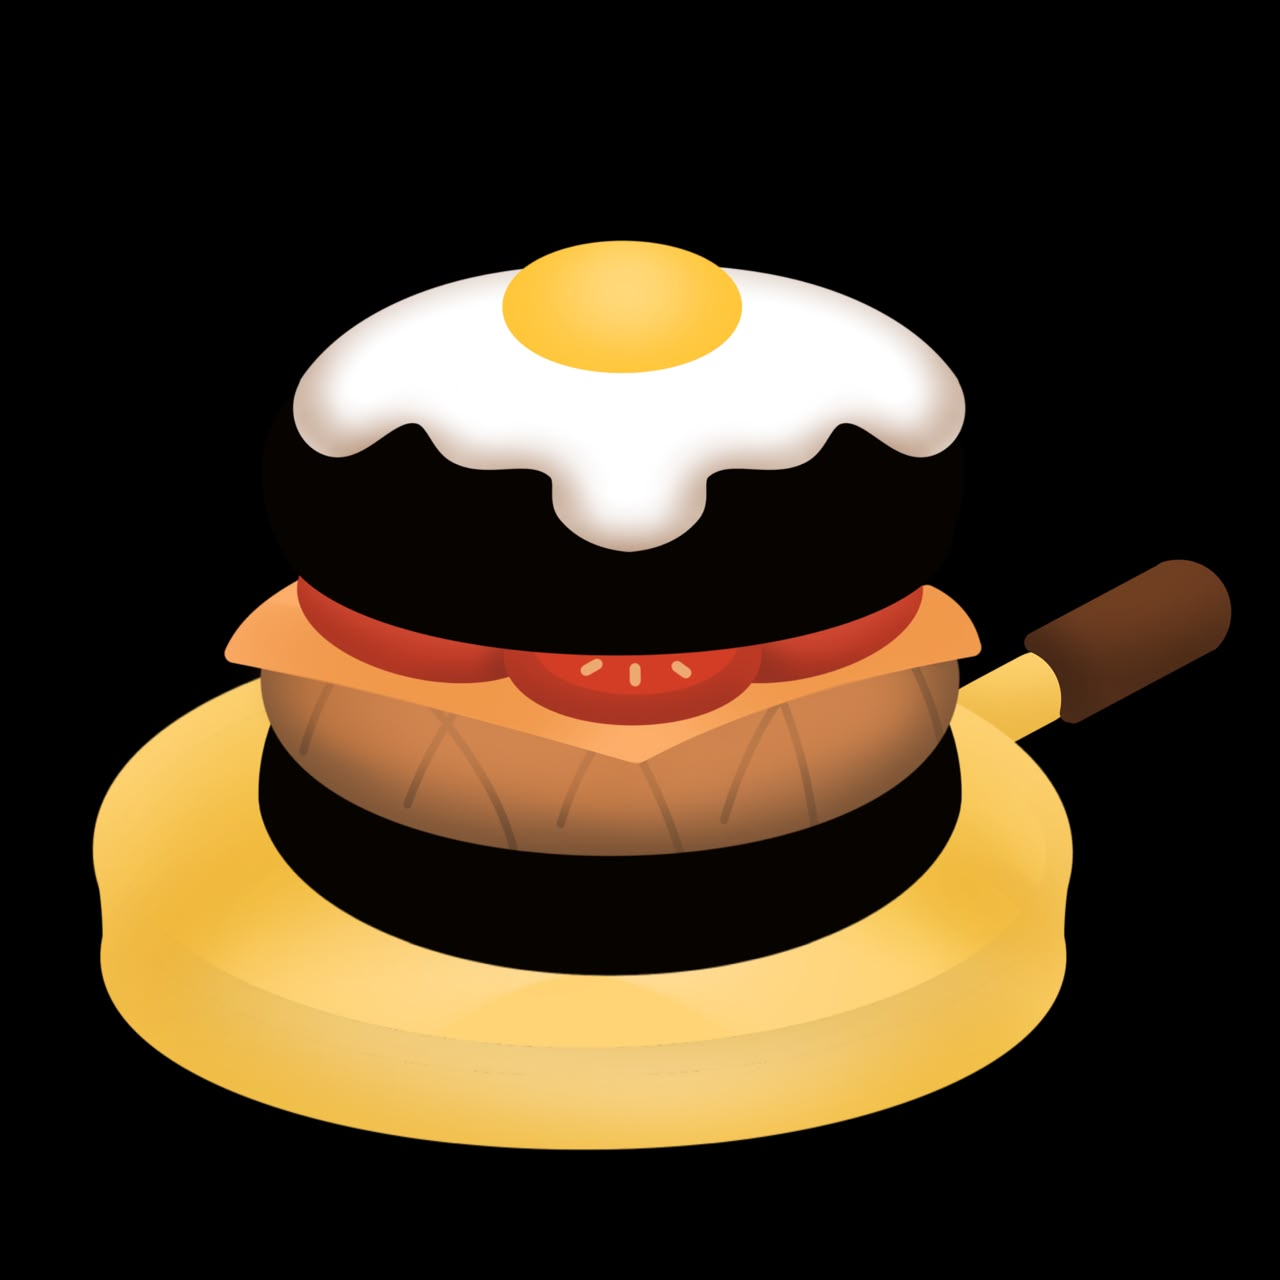
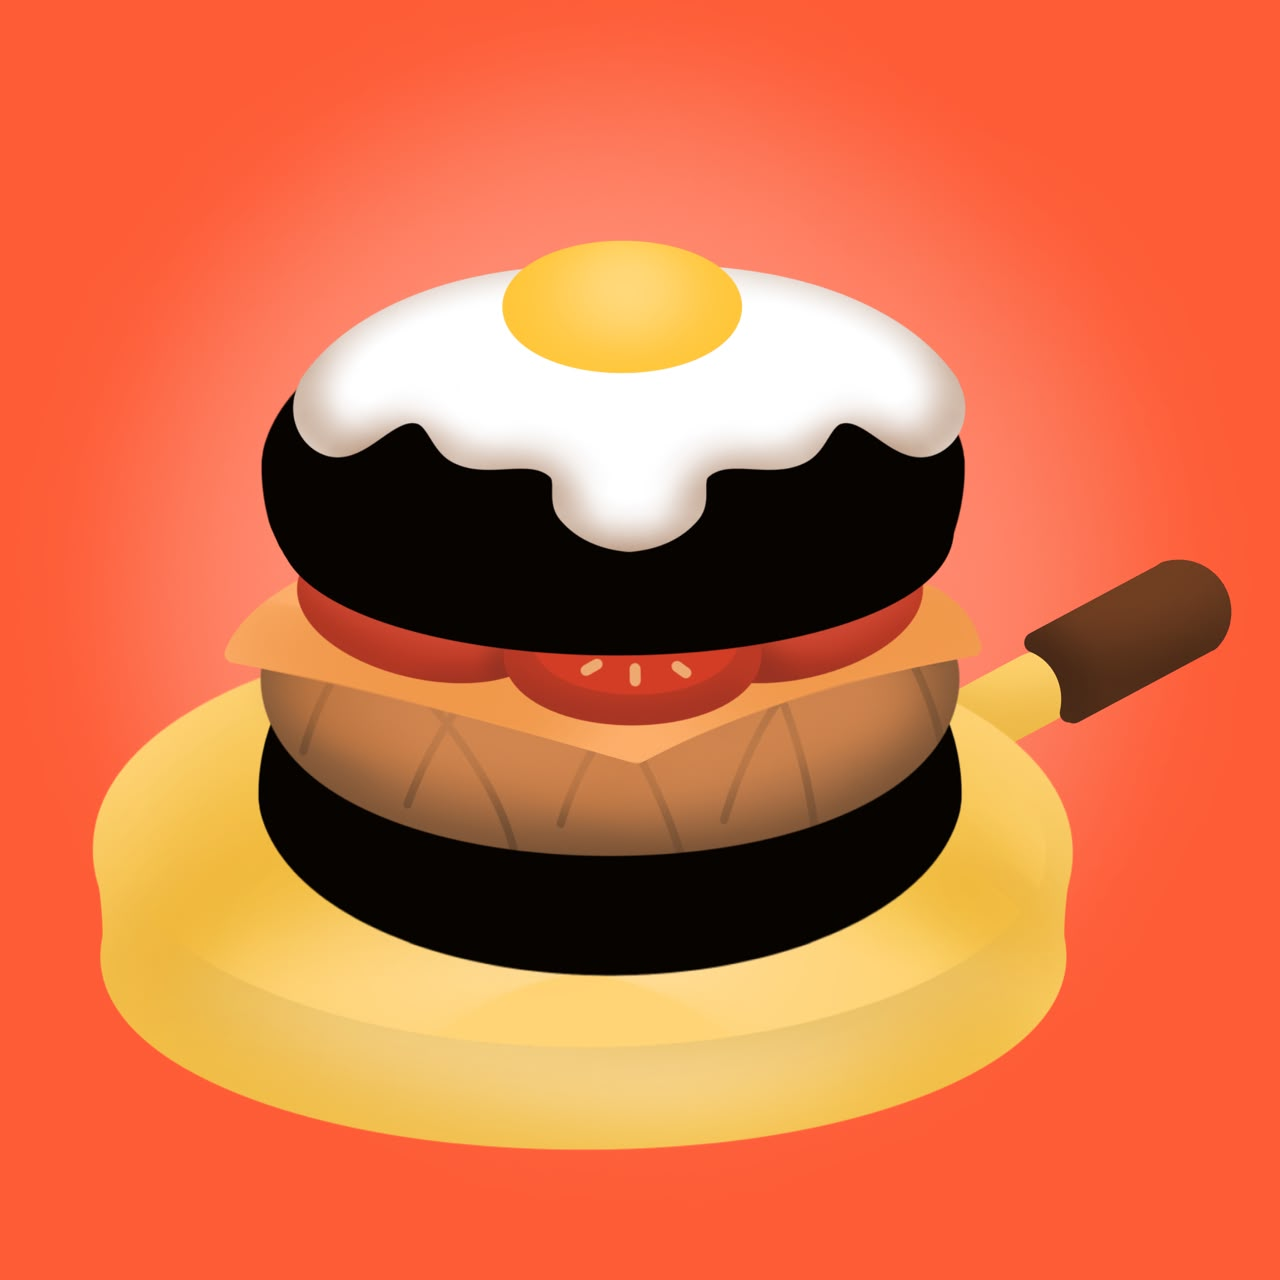
STYLE: botoes e carrossel

diff --git a/script.js b/script.js
@@ -48,7 +48,7 @@ const pratos = [
 
     {
         nome: "Gagamelo",
-        descricao: "Milk-shake cremoso de caramelo, preparado com uma mistura suave e saborosa, finalizado com o delicioso toque do caramelo. Uma bebida irresistível para acompanhar seu momento. Imagem Meramente Ilustrativa",
+        descricao: "Milk-shake cremoso de caramelo, preparado com uma mistura suave e saborosa, finalizado com o delicioso toque do caramelo. Uma bebida irresistível para acompanhar seu momento. Imagem Meramente Ilustrativa.",
         categoria: "Sobremesas",
         valor: 17.90,
         imagem: "img/gagamelo.jpeg",
@@ -56,35 +56,39 @@ const pratos = [
     },
 
     {
-        nome: "Joanne Dip",
-        descricao: "Molho rosé delicado.",
-        categoria: "Molhos",
-        valor: 5.90,
-        imagem: "img/joannedip.webp"
+        nome: "Dress Burguer",
+        descricao: "Hambúrguer artesanal com pão vermelho, suculenta carne bovina, queijo derretido e alface americana, finalizado com um irresistível molho de pimenta e bacon crocante por cima. Uma combinação intensa, cremosa e cheia de sabor. Imagem Meramente Ilustrativa.",
+        categoria: "Sanduíches",
+        valor: 28.90,
+        imagem: "img/dressburguer.jpeg",
+        alt: "Hambúrguer vermelho com carne, queijo e alface. No topo, bacons e uma bandeirinha azul e branca."
     },
 
     {
-        nome: "Judas Jalapeño",
-        descricao: "Molho apimentado.",
-        categoria: "Molhos",
-        valor: 6.90,
-        imagem: "img/judasjalapeno.jpg"
+        nome: "Speecheese",
+        descricao: "Hambúrguer artesanal duplo, com muito muito queijo e cebola caramelizada. Nossa cebola conta com um delicioso toque de cebola roxa crua para dar crocância ao prato. Imagem Meramente Ilustrativa.",
+        categoria: "Sanduíches",
+        valor: 32.90,
+        imagem: "img/speecheese.jpeg",
+        alt: "Hambúrguer duplo suculentp sob um prato de decoração de piano e dentro de uma garrafa."
     },
 
     {
-        nome: "Summershake",
-        descricao: "Milkshake de manga com pêssego.",
-        categoria: "Bebidas",
+        nome: "Just Free",
+        descricao: "Hambúrguer vegano artesanal, preparado com um delicioso blend vegetal, acompanhado de ingredientes frescos e saborosos. Uma opção leve, cremosa e irresistível para quem ama um bom hambúrguer. Imagem Meramente Ilustrativa.",
+        categoria: "Sanduíches",
+        valor: 30.90,
+        imagem: "img/justfree.jpeg",
+        alt: "Hambúrguer vegano"
+    },
+
+    {
+        nome: "Sour Candy",
+        descricao: "Milkshake de morango e limão, uma combinação docinha e ácida servida em um copo babadeiro que simula um dos mais icônicos saltos usados pela diva pop. Imagem Meramente Ilustrativa.",
+        categoria: "Sobremesas",
         valor: 17.90,
-        imagem: "img/summershake.jpg"
-    },
-
-    {
-        nome: "Cherry Boom",
-        descricao: "Milkshake de cereja.",
-        categoria: "Bebidas",
-        valor: 17.90,
-        imagem: "img/cherryboom.jpg"
+        imagem: "img/sourcandy.jpeg",
+        alt: "Milk-shake de morango e limão dentro de um copo que simula um salto alto rosa."
     },
 
     {

diff --git a/index.html b/index.html
@@ -8,32 +8,40 @@
     <title>USMONSTER</title>
 </head>
 <body>
+
     <header>
         <button type="button" id="menu"><i class="bi bi-list"></i></button>
         <h1>MONSTERUS</h1>
         <button type="button" id="carrinho"><i class="bi bi-basket"></i></button>
         <button type="button" id="acessibilidade"><i class="bi bi-person-arms-up"></i></button>
     </header>
+
     <main>
+
         <section class="tipo-pedido">
             <button type="button" id="botao-delivery"><i class="bi bi-bicycle"></i>DELIVERY</button>
             <button type="button" id="botao-retirada"><i class="bi bi-shop"></i>PEÇA E RETIRE</button>
         </section>
+
         <section class="filtrar-cardapio">
-            <button type="button" class="filtrar-promo"><i class="bi bi-geo-alt"></i>Promoções Peça e Retire</button>
             <button type="button" class="filtrar"><i class="bi bi-emoji-laughing"></i>kids</button>
             <button type="button" class="filtrar"><i class="bi bi-trash2"></i>Acompanhamentos</button>
             <button type="button" class="filtrar"><i class="bi bi-cup-straw"></i>Bebidas</button>
             <button type="button" class="filtrar"><i class="bi bi-fork-knife"></i>Sanduíches</button>
             <button type="button" class="filtrar"><i class="bi bi-cookie"></i>Sobremesas</button>
         </section>
+        
         <section class="carrossel-cardapio">
             <button type="button" id="ant-itens"><i class="bi bi-arrow-left-circle"></i></button>
+            
             <section id="cardapio">       
             </section>
+
             <button type="button" id="prox-itens"><i class="bi bi-arrow-right-circle"></i></button>
         </section>
+
     </main>
+
     <footer>
         <div class="footer-institucional">
             <h1>MONSTERUS</h1>
@@ -57,6 +65,7 @@
             <p>&copy; 2026 LG MONSTER COMPANY - TODOS OS DIREITOS RESERVADOS</p>
         </div>
     </footer>
+    
     <script src="script.js"></script>
 </body>
 </html>

diff --git a/style.css b/style.css
@@ -146,7 +146,7 @@ header h1 {
     font-size: 16px;
     color: var(--corFundoPadrao);
     border: 3px solid var(--corFundoPadrao);
-    background-color: #ddd6d6;
+    background-color: #b6c3f8;
 }
 
 .filtrar-cardapio i {
@@ -162,6 +162,8 @@ header h1 {
     gap: 1rem;
     align-items: center;
     padding-bottom: 2rem;
+    padding-left: 0.5rem;
+    padding-right: 0.5rem;
 }
 
 .carrossel-cardapio button {
@@ -170,11 +172,12 @@ header h1 {
     font-size: 50px;
     border: none;
     background-color: transparent;
+    transition: transform 0.3px ease;
 }
 
-.carrossel-cardapio i:hover {
+.carrossel-cardapio button:hover {
     border-radius: 40px;
-    background-color: #beb5b5bb;
+    transform: scale(1.1);
 }
 
 #cardapio{
@@ -183,12 +186,14 @@ header h1 {
     flex-wrap: nowrap;
     gap: 1rem;
     overflow: hidden;
+    align-items: center;
+    justify-content: center;
 }
 
 .item-card {
     display: flex;
     flex-direction: column;
-    width: 230px;
+    width: 225px;
     height: 300px;
     align-items: center;
     justify-content: center;
@@ -216,8 +221,8 @@ header h1 {
 } 
 
 .item-info img{
-    width: 230px;
-    height: 230px;
+    width: 220px;
+    height: 220px;
     object-fit: cover;
     border-radius: 8px;
 }
